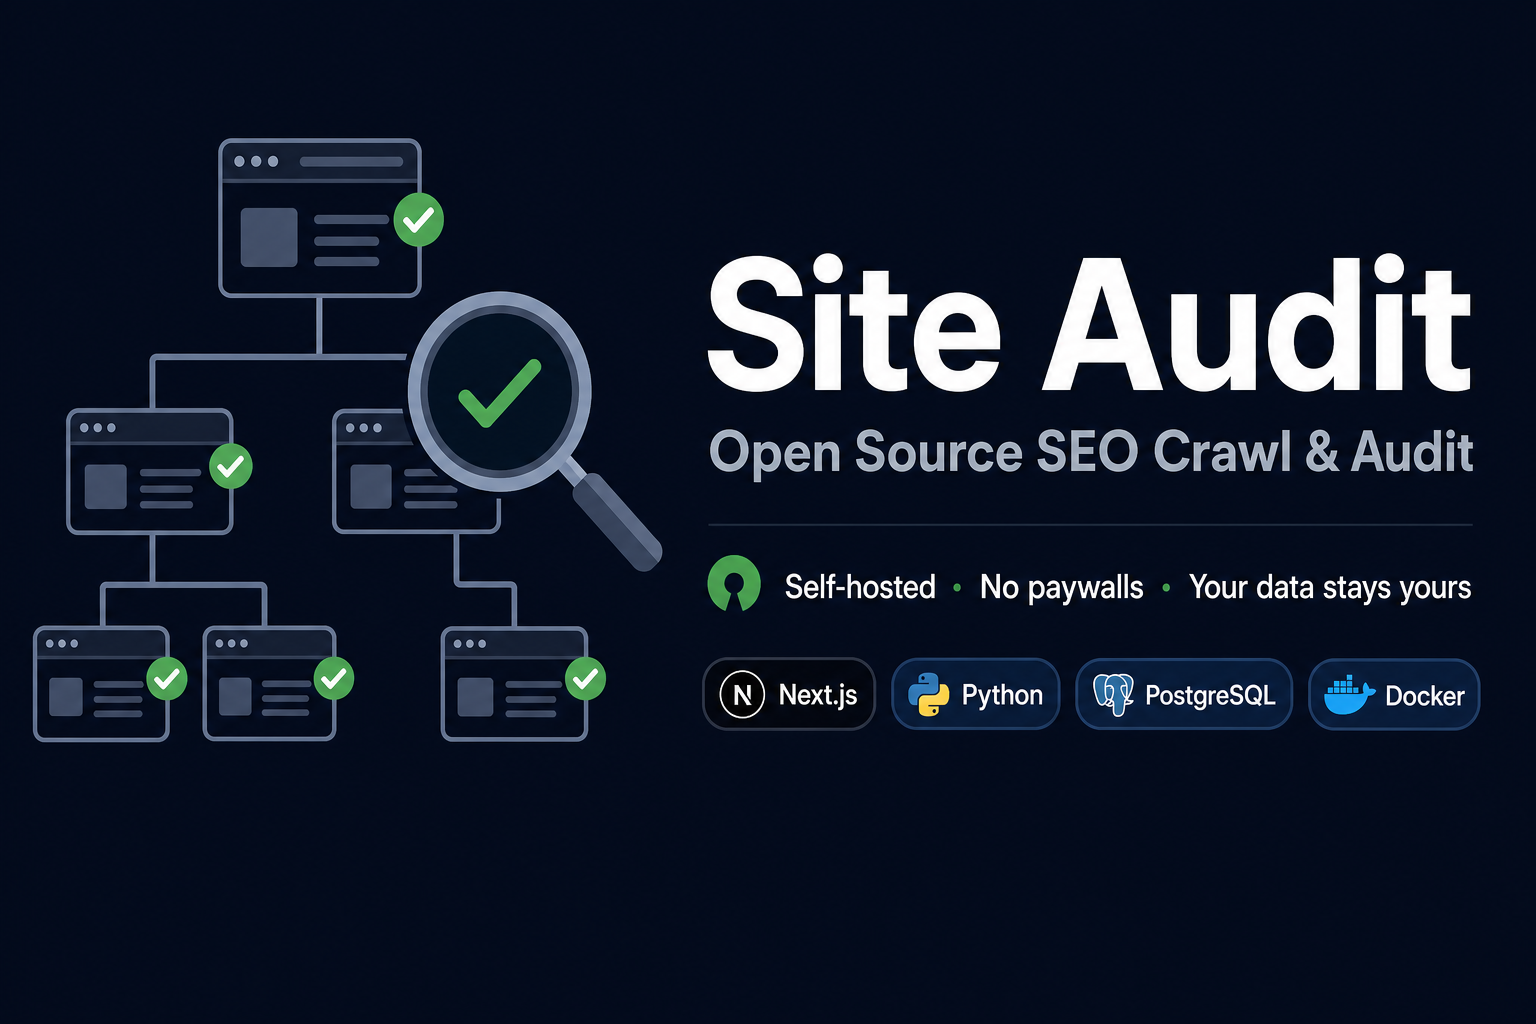
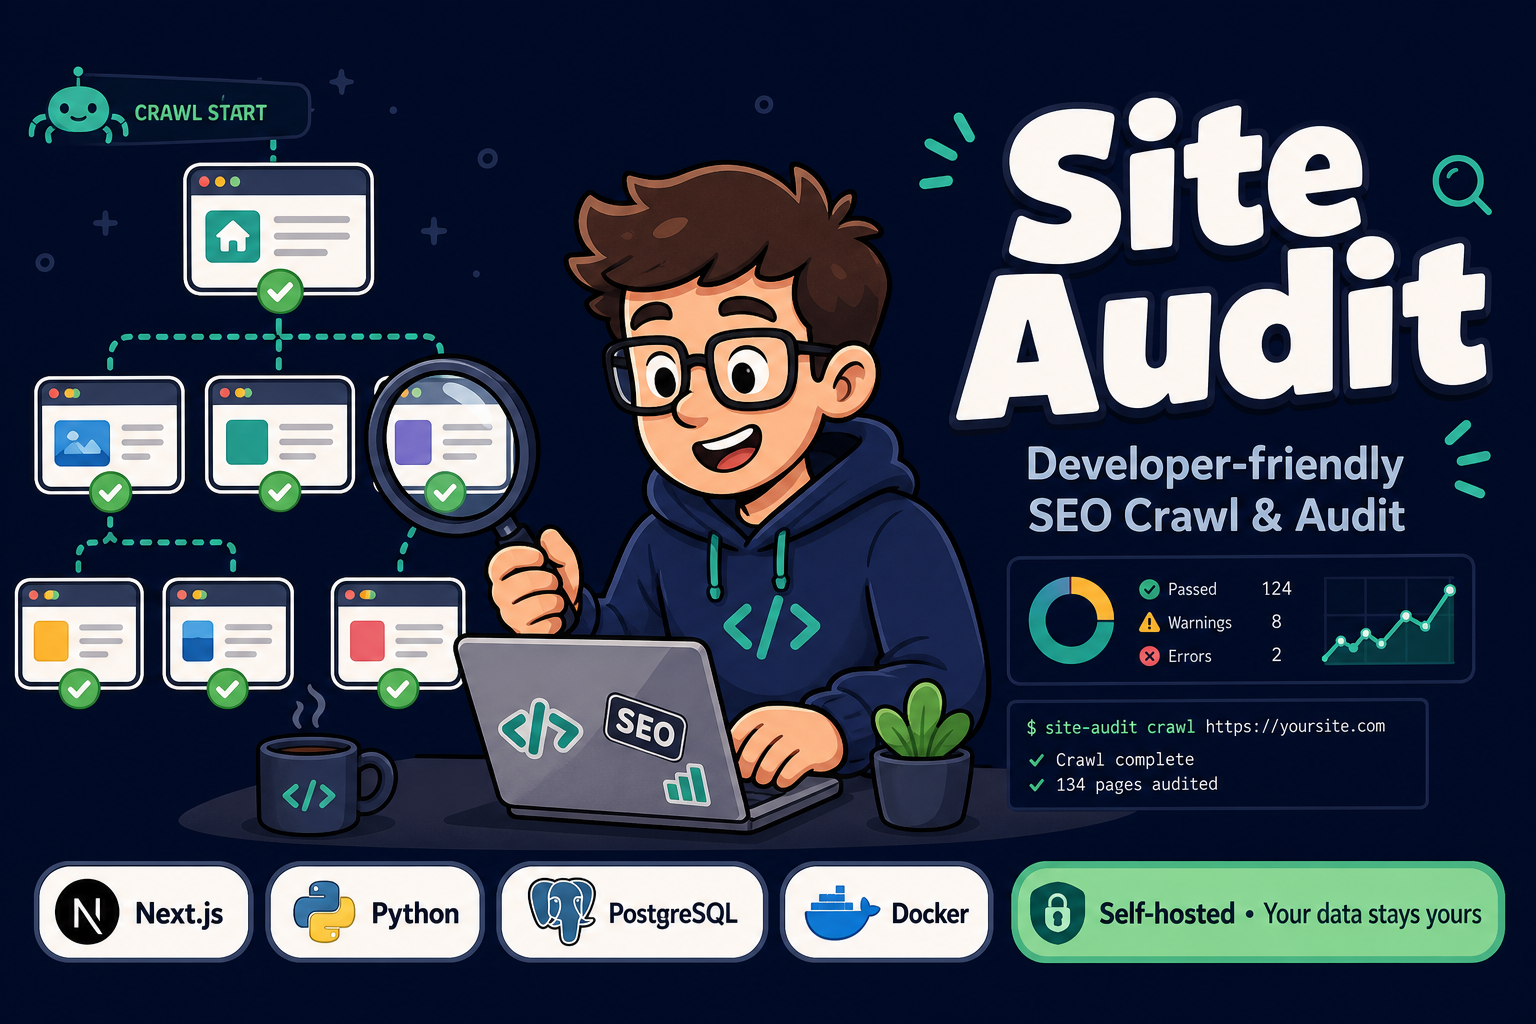
Cartton it is

diff --git a/README.md b/README.md
@@ -1,12 +1,12 @@
 <p align="center">
   <a href="https://github.com/codefrydev/WebsiteProfiling">
-    <img src="docs/assets/readme-banner.png" alt="Site Audit — Open Source SEO Crawl &amp; Audit" width="920">
+    <img src="docs/assets/readme-banner.png" alt="Site Audit — Developer-friendly SEO crawl and audit" width="920">
   </a>
 </p>
 
 <p align="center">
-  <strong>Site Audit — Open Source SEO Crawl &amp; Audit</strong><br>
-  <sub>Self-hosted technical SEO — your infrastructure, your data.</sub>
+  <strong>Site Audit — Developer-friendly SEO crawl &amp; audit</strong><br>
+  <sub>Self-hosted technical SEO for developers — your infrastructure, your data.</sub>
 </p>
 
 <p align="center">
@@ -37,15 +37,15 @@
 
 # Site Audit
 
-**Open-source SEO crawl and technical audit platform** — built with **Next.js, Python, and PostgreSQL**.
+**Developer-friendly SEO audit platform** — open-source crawl and technical audit tooling built with **Next.js, Python, and PostgreSQL**.
 
 ## Overview
 
-Site Audit is a self-hosted alternative to commercial SEO suites. It runs on your own infrastructure, stores data in your PostgreSQL database, and produces transparent technical reports — no subscription tiers, no gated exports.
+Site Audit is a **developer-friendly SEO audit** tool: self-hosted, transparent, and built for engineers who want crawl data, issue reports, and integrations in their own stack — not another opaque SaaS dashboard. It runs on your infrastructure, stores data in PostgreSQL, and produces actionable technical reports with no subscription tiers or gated exports.
 
 **Use cases**
 
-- Technical SEO audits for owned or client properties
+- Developer-friendly SEO audits for owned or client properties
 - Crawl analysis with static and JavaScript rendering
 - Content writing and optimization with live SEO scoring
 - Search Console, GA4, and Bing Webmaster integration
@@ -95,9 +95,7 @@ Site Audit focuses on **honest, self-hosted technical SEO**. It is not a drop-in
 
 Also included: **AI chat** over audit data (optional), **Content studio** (write &amp; optimize with live SEO scoring), **340 MCP tools** (domain-scoped servers), image SEO, GEO/AEO readiness, keyword explorer (GSC + on-site), backlinks (GSC Links import), compare runs, and portfolio management for agencies.
 
-<p align="center">
-  <img src="docs/assets/social-preview.png" alt="Site Audit preview" width="640">
-</p>
+<img src="docs/assets/social-preview.png" alt="Site Audit — developer-friendly SEO audit preview" width="100%">
 
 ## Architecture
 
@@ -137,15 +135,17 @@ WebsiteProfiling/
 └── pipeline-config.example.txt
 ```
 
-| Path | Purpose |
-|------|---------|
-| `src/website_profiling/` | Crawl, analyze, report, Lighthouse, integrations, AI — run via `python -m src` |
-| `web/app/api/` | REST APIs: report data, pipeline runs, chat (SSE), Google/Bing sync |
-| `web/src/lib/pipelineConfigSchema.ts` | Audit settings schema (UI ↔ PostgreSQL) |
-| `alembic/versions/` | Database migrations — run `./local-run migrate` |
-| `tests/` | Backend tests; `./local-test browser` for Playwright crawl integration |
-| `docs/MCP.md` | MCP server setup for IDE and agent integrations |
-| `data/` | Local secrets and shadow `pipeline-config.txt` (gitignored) |
+
+| Path                                  | Purpose                                                                        |
+| ------------------------------------- | ------------------------------------------------------------------------------ |
+| `src/website_profiling/`              | Crawl, analyze, report, Lighthouse, integrations, AI — run via `python -m src` |
+| `web/app/api/`                        | REST APIs: report data, pipeline runs, chat (SSE), Google/Bing sync            |
+| `web/src/lib/pipelineConfigSchema.ts` | Audit settings schema (UI ↔ PostgreSQL)                                        |
+| `alembic/versions/`                   | Database migrations — run `./local-run migrate`                                |
+| `tests/`                              | Backend tests; `./local-test browser` for Playwright crawl integration         |
+| `docs/MCP.md`                         | MCP server setup for IDE and agent integrations                                |
+| `data/`                               | Local secrets and shadow `pipeline-config.txt` (gitignored)                    |
+
 
 For layout details and common development patterns, see [AGENT.md](AGENT.md).
 
@@ -179,10 +179,12 @@ Default local `DATABASE_URL`: `postgres://postgres:dev@127.0.0.1:5432/website_pr
 
 ### Pipeline job timeouts
 
-| Setting | Default | Description |
-|---------|---------|-------------|
-| `PIPELINE_JOB_STALE_HOURS` | 1 hour | Reconciles stuck `running` rows |
+
+| Setting                       | Default   | Description                                    |
+| ----------------------------- | --------- | ---------------------------------------------- |
+| `PIPELINE_JOB_STALE_HOURS`    | 1 hour    | Reconciles stuck `running` rows                |
 | `PIPELINE_JOB_ORPHAN_MINUTES` | 5 minutes | Clears orphan jobs with no live server process |
+
 
 Increase `PIPELINE_JOB_STALE_HOURS` for crawls that routinely exceed one hour.
 
@@ -213,16 +215,18 @@ In Audit settings, set **Crawl rendering** to `javascript` (always headless Chro
 
 Ask questions about audit data at [http://localhost:3000/chat](http://localhost:3000/chat). Enable a provider under **Run audit → AI settings** (`llm_enabled`, provider, model). `./local-run setup` installs Python deps from `requirements.txt` (including `httpx`, OpenAI, Anthropic, and Groq SDKs; Gemini uses `httpx` via REST).
 
-| Provider | Notes |
-|----------|-------|
-| **Ollama** | Local daemon at `http://127.0.0.1:11434`. Chat UI lists installed models plus the live Ollama cloud catalog. Native tool calling when supported; ReAct fallback otherwise. |
-| **OpenAI** / **Anthropic** | API key in AI settings or env (`OPENAI_API_KEY`, `ANTHROPIC_API_KEY`); native tool calling with streaming. |
-| **Google Gemini** | API key in AI settings or `GEMINI_API_KEY`; REST via `httpx`. |
-| **Groq** | API key in AI settings or `GROQ_API_KEY`; official Groq Python SDK; native tool calling with streaming. Default model `openai/gpt-oss-120b`. |
+
+| Provider                   | Notes                                                                                                                                                                      |
+| -------------------------- | -------------------------------------------------------------------------------------------------------------------------------------------------------------------------- |
+| **Ollama**                 | Local daemon at `http://127.0.0.1:11434`. Chat UI lists installed models plus the live Ollama cloud catalog. Native tool calling when supported; ReAct fallback otherwise. |
+| **OpenAI** / **Anthropic** | API key in AI settings or env (`OPENAI_API_KEY`, `ANTHROPIC_API_KEY`); native tool calling with streaming.                                                                 |
+| **Google Gemini**          | API key in AI settings or `GEMINI_API_KEY`; REST via `httpx`.                                                                                                              |
+| **Groq**                   | API key in AI settings or `GROQ_API_KEY`; official Groq Python SDK; native tool calling with streaming. Default model `openai/gpt-oss-120b`.                               |
+
 
 The agent uses the same **340 read-only audit tools** as the MCP server ([docs/MCP.md](docs/MCP.md)), with **dynamic routing** (~45 tools per turn). Responses stream over SSE (`POST /api/chat`). Sessions persist per property (`chat_sessions` / `chat_messages`).
 
-### Content studio (optional)
+### Content studio (optional, Experimental)
 
 Write and optimize content at [http://localhost:3000/write](http://localhost:3000/write) with **live SEO scoring** from Search Console and on-page heuristics. Drafts persist per property; an optional AI assist (same providers as AI chat) drafts and rewrites copy. Backed by `/api/content-drafts`, `/api/content/score`, and `/api/content/analyze`.
 
@@ -235,14 +239,16 @@ Contributions are welcome. See [CONTRIBUTING.md](CONTRIBUTING.md) for setup and 
 
 ## Documentation
 
-| Document | Description |
-|----------|-------------|
-| [docs/README.md](docs/README.md) | Documentation index and brand assets |
-| [AGENT.md](AGENT.md) | Repository layout and development commands |
-| [docs/GLOSSARY.md](docs/GLOSSARY.md) | UI terminology |
-| [docs/COMPANY_STANDARDS.md](docs/COMPANY_STANDARDS.md) | Data and security policy |
-| [docs/MCP.md](docs/MCP.md) | MCP server setup |
-| [docs/OPS.md](docs/OPS.md) | Scheduled audits, alerts, production ops |
+
+| Document                                               | Description                                |
+| ------------------------------------------------------ | ------------------------------------------ |
+| [docs/README.md](docs/README.md)                       | Documentation index and brand assets       |
+| [AGENT.md](AGENT.md)                                   | Repository layout and development commands |
+| [docs/GLOSSARY.md](docs/GLOSSARY.md)                   | UI terminology                             |
+| [docs/COMPANY_STANDARDS.md](docs/COMPANY_STANDARDS.md) | Data and security policy                   |
+| [docs/MCP.md](docs/MCP.md)                             | MCP server setup                           |
+| [docs/OPS.md](docs/OPS.md)                             | Scheduled audits, alerts, production ops   |
+
 
 ## Star History
 
@@ -251,5 +257,3 @@ Contributions are welcome. See [CONTRIBUTING.md](CONTRIBUTING.md) for setup and 
 ## License
 
 Copyright © 2026 [codefrydev](https://github.com/codefrydev). Released under the [MIT License](LICENSE).
-
-Issues and pull requests: [codefrydev/WebsiteProfiling](https://github.com/codefrydev/WebsiteProfiling)
